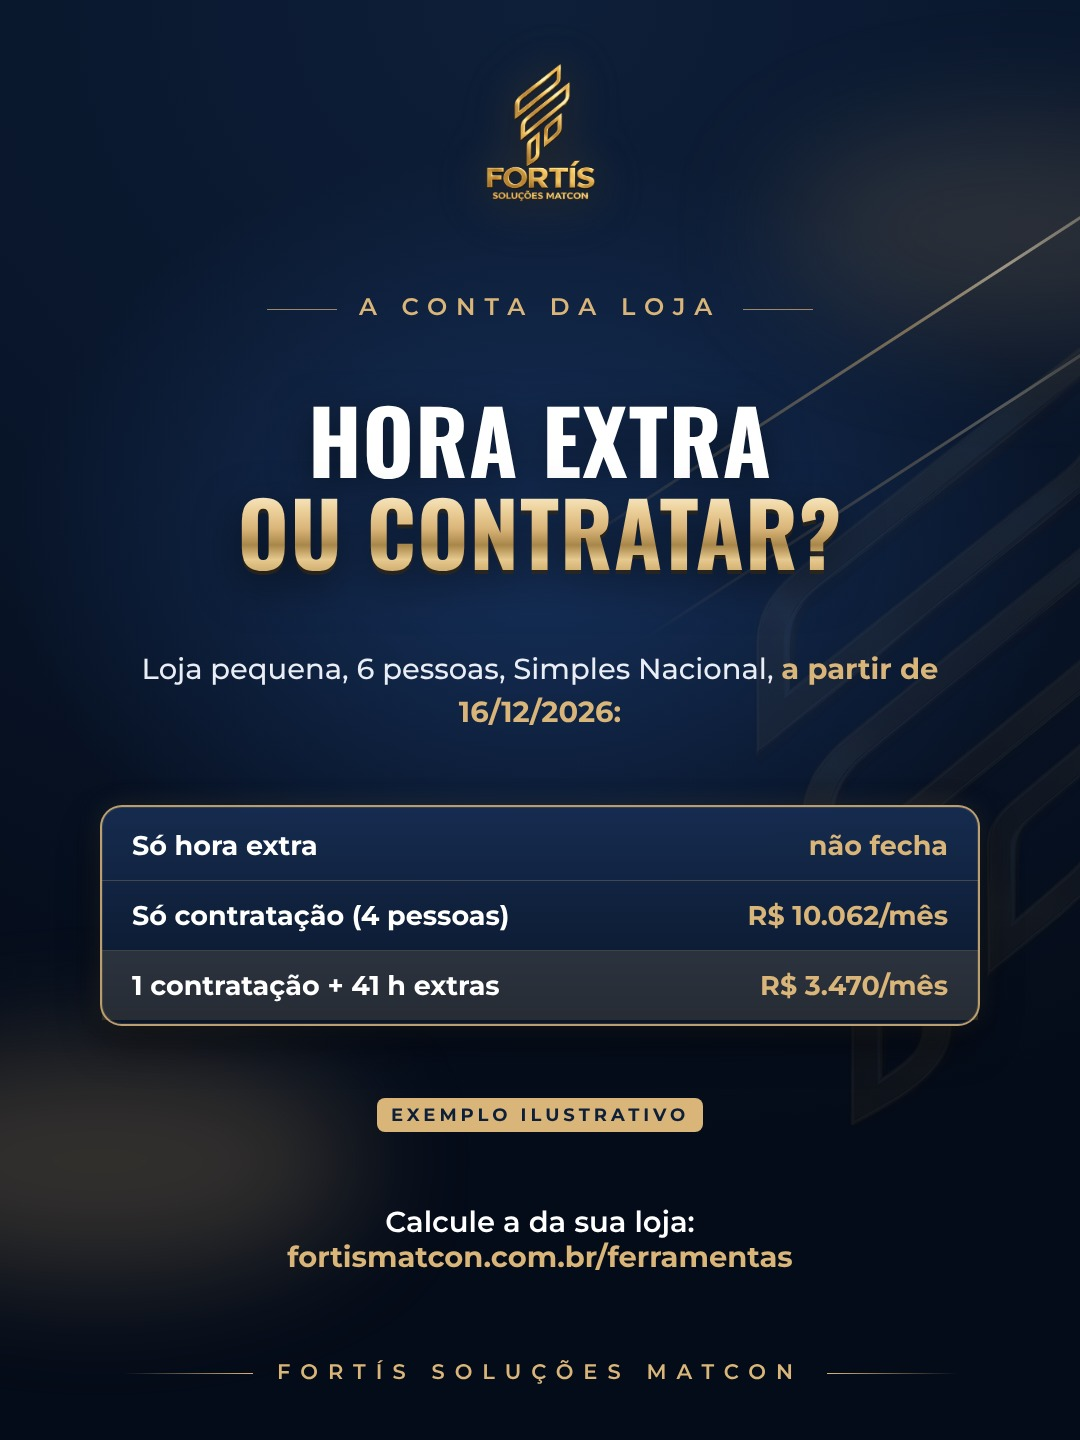
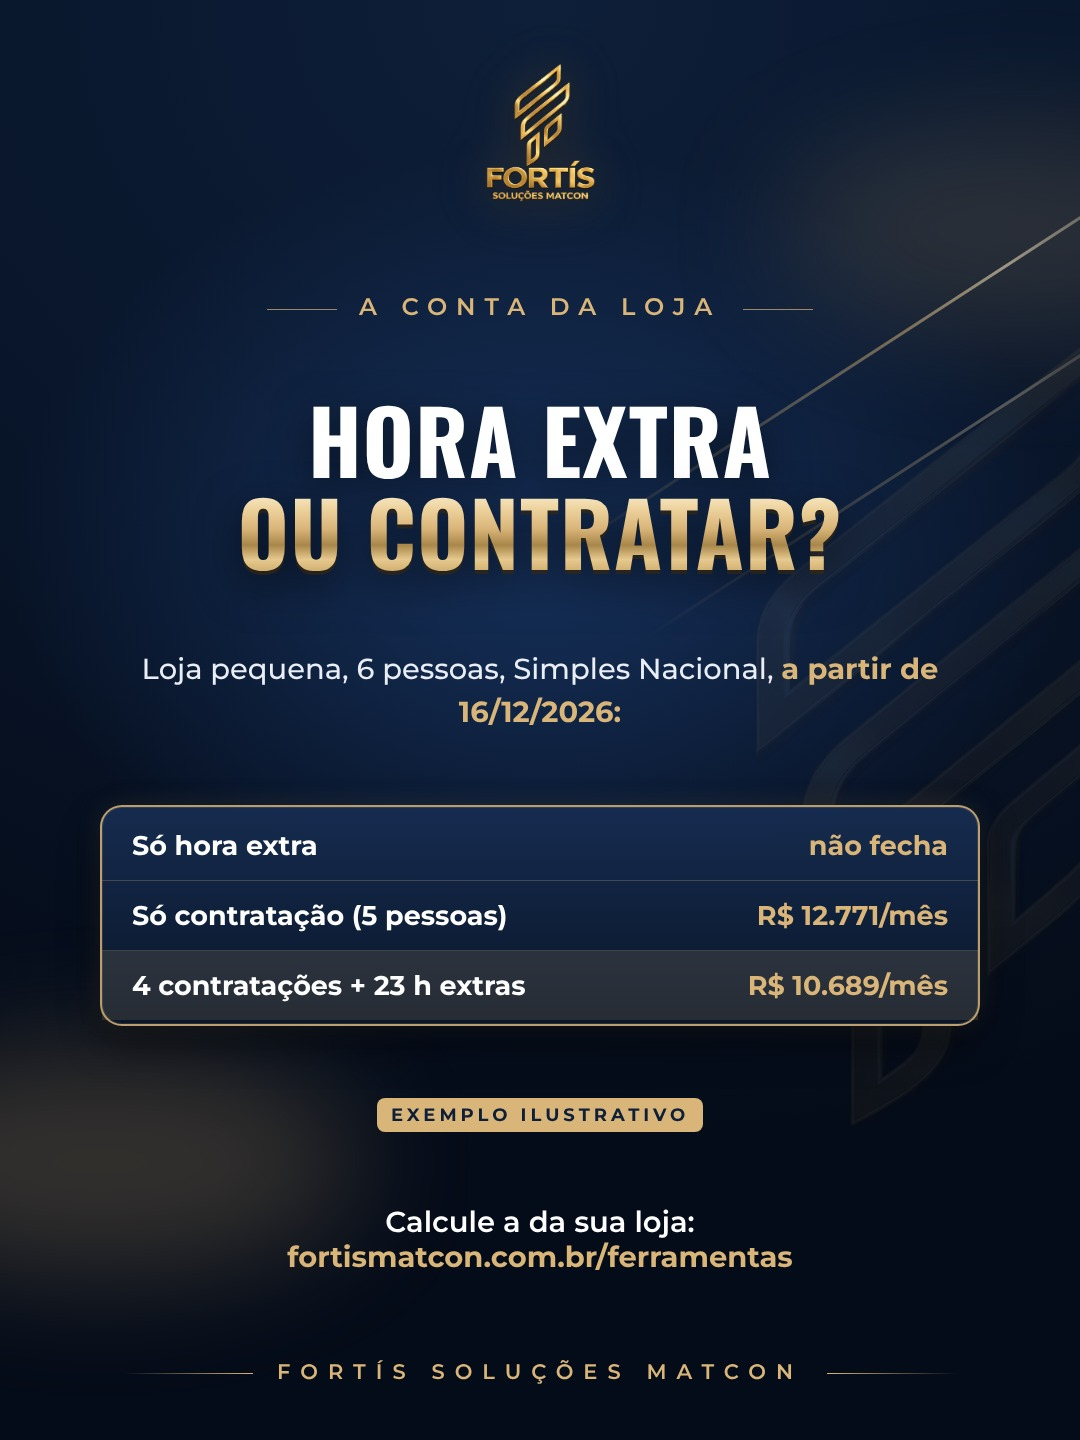
Série 5x2: números corrigidos pela calculadora revista (loja pequena 8 -> 11 pessoas; R$ 12.771 x R$ 10.689)
Claude-Session: https://claude.ai/code/session_01HVzRnNg6pzCVkCeZ2TrhZb

Changed region(s): [[0.1222, 0.625, 0.4889, 0.7188], [0.6722, 0.625, 0.825, 0.7188]]

diff --git a/gerador/especiais/serie-calculadora-5x2.py b/gerador/especiais/serie-calculadora-5x2.py
@@ -77,20 +77,20 @@ SERIE['27-11'] = dict(
     capa("ESCALA 5x2 · O PONTO CEGO", ["O SÁBADO", "VIROU O PROBLEMA"], "Hoje todo mundo trabalha 6 dias. <b>Com 5, alguém precisa folgar durante a semana</b> para cobrir o sábado.", 108),
     slide("POR QUE A CONTA NÃO FECHA", ["DIAS, NÃO", "SÓ HORAS"], [("5 dias por pessoa", "A loja abre 6: um dia fica para outra pessoa cobrir."), ("Dia de 10 horas", "Uma jornada de 8h24 não cobre o dia sozinha."), ("Caixa e balcão", "São os primeiros setores a ficar descobertos.")], 92),
     conta("EXEMPLO · LOJA PEQUENA", ["A CONTA DA", "CALCULADORA"], "Seg a sex das 7h30 às 17h30, sábado até 11h30. <b>Sem hora extra:</b>",
-      [("Equipe hoje", "6 pessoas"), ("Precisa hoje, na 6x1", "7 pessoas"), ("Precisa com 42 h, na 5x2", "10 pessoas")], (2,),
+      [("Equipe hoje", "6 pessoas"), ("Precisa hoje, na 6x1", "8 pessoas"), ("Precisa com 42 h, na 5x2", "11 pessoas")], (2,),
       'A diferença está no <b>desenho da semana.</b>', 84),
     fim(["SIMULE A", "SUA LOJA"], [SITE, ("Escala pronta", "Quem trabalha e quem folga, dia a dia.")], 'Quer ajuda para montar? <b>Chame no direct.</b>')],
-    'Escala 5x2 na loja de material de construção: o sábado virou o problema.\n\nCom 5 dias de trabalho por pessoa e a loja aberta 6, alguém precisa folgar durante a semana para cobrir o sábado. E um dia de 10 horas não cabe numa jornada de 8h24. No exemplo da loja pequena, a equipe que precisa de 7 pessoas hoje passa a precisar de 10 sem hora extra.\n\nSimule a sua loja na calculadora gratuita: fortismatcon.com.br/ferramentas\n\nExemplo ilustrativo. Cada loja deve validar a escala com o seu contador.'),
+    'Escala 5x2 na loja de material de construção: o sábado virou o problema.\n\nCom 5 dias de trabalho por pessoa e a loja aberta 6, alguém precisa folgar durante a semana para cobrir o sábado. E um dia de 10 horas não cabe numa jornada de 8h24. No exemplo da loja pequena, a equipe que precisa de 8 pessoas hoje, sem hora extra, passa a precisar de 11: quem abre a loja não consegue fechar, e cada um tem 1 hora de almoço.\n\nSimule a sua loja na calculadora gratuita: fortismatcon.com.br/ferramentas\n\nExemplo ilustrativo. Cada loja deve validar a escala com o seu contador.'),
   story=('escala-5x2-sabado', chamada("ESCALA 5x2", ["QUEM VAI FOLGAR", "NO SÁBADO?"], "Com 5 dias por pessoa, <b>o sábado precisa sair da folga de alguém.</b> A calculadora monta a escala.", 100)),
 )
 
 # ======================================================================= 02/12 (qua)
 SERIE['02-12'] = dict(
   feed=('escala-5x2-extra-ou-contratar', conta("A CONTA DA LOJA", ["HORA EXTRA", "OU CONTRATAR?"], "Loja pequena, 6 pessoas, Simples Nacional, <b>a partir de 16/12/2026:</b>",
-      [("Só hora extra", "não fecha"), ("Só contratação (4 pessoas)", "R$ 10.062/mês"), ("1 contratação + 41 h extras", "R$ 3.470/mês")], (2,),
+      [("Só hora extra", "não fecha"), ("Só contratação (5 pessoas)", "R$ 12.771/mês"), ("4 contratações + 23 h extras", "R$ 10.689/mês")], (2,),
       f'Calcule a da sua loja:<br><b>{URL}</b>', 88, 27),
-    'Escala 5x2: pagar hora extra ou contratar?\n\nNo exemplo da loja pequena (6 pessoas, Simples Nacional), só com hora extra a conta não fecha: o caixa fica descoberto. Contratar 4 pessoas custa R$ 10.062 por mês. A combinação mais barata, 1 contratação e 41 horas extras, sai por R$ 3.470 por mês.\n\nA calculadora gratuita compara os três caminhos para a sua loja: fortismatcon.com.br/ferramentas\n\nExemplo ilustrativo, com encargos estimados. Confirme os números com o seu contador.'),
-  story=('escala-5x2-extra-ou-contratar', chamada("A CONTA DA LOJA", ["HORA EXTRA", "OU CONTRATAR?"], "A diferença entre a saída certa e a errada pode passar de <b>R$ 6 mil por mês.</b>", 94)),
+    'Escala 5x2: pagar hora extra ou contratar?\n\nNo exemplo da loja pequena (6 pessoas, Simples Nacional), só com hora extra a conta não fecha: o caixa fica descoberto. Contratar 5 pessoas custa R$ 12.771 por mês. A combinação mais barata, 4 contratações e 23 horas extras, sai por R$ 10.689 por mês.\n\nA calculadora gratuita compara os três caminhos para a sua loja: fortismatcon.com.br/ferramentas\n\nExemplo ilustrativo, com encargos estimados. Confirme os números com o seu contador.'),
+  story=('escala-5x2-extra-ou-contratar', chamada("A CONTA DA LOJA", ["HORA EXTRA", "OU CONTRATAR?"], "A diferença entre a saída certa e a errada passa de <b>R$ 2 mil por mês.</b>", 94)),
 )
 
 # ======================================================================= 08/12 (ter)
